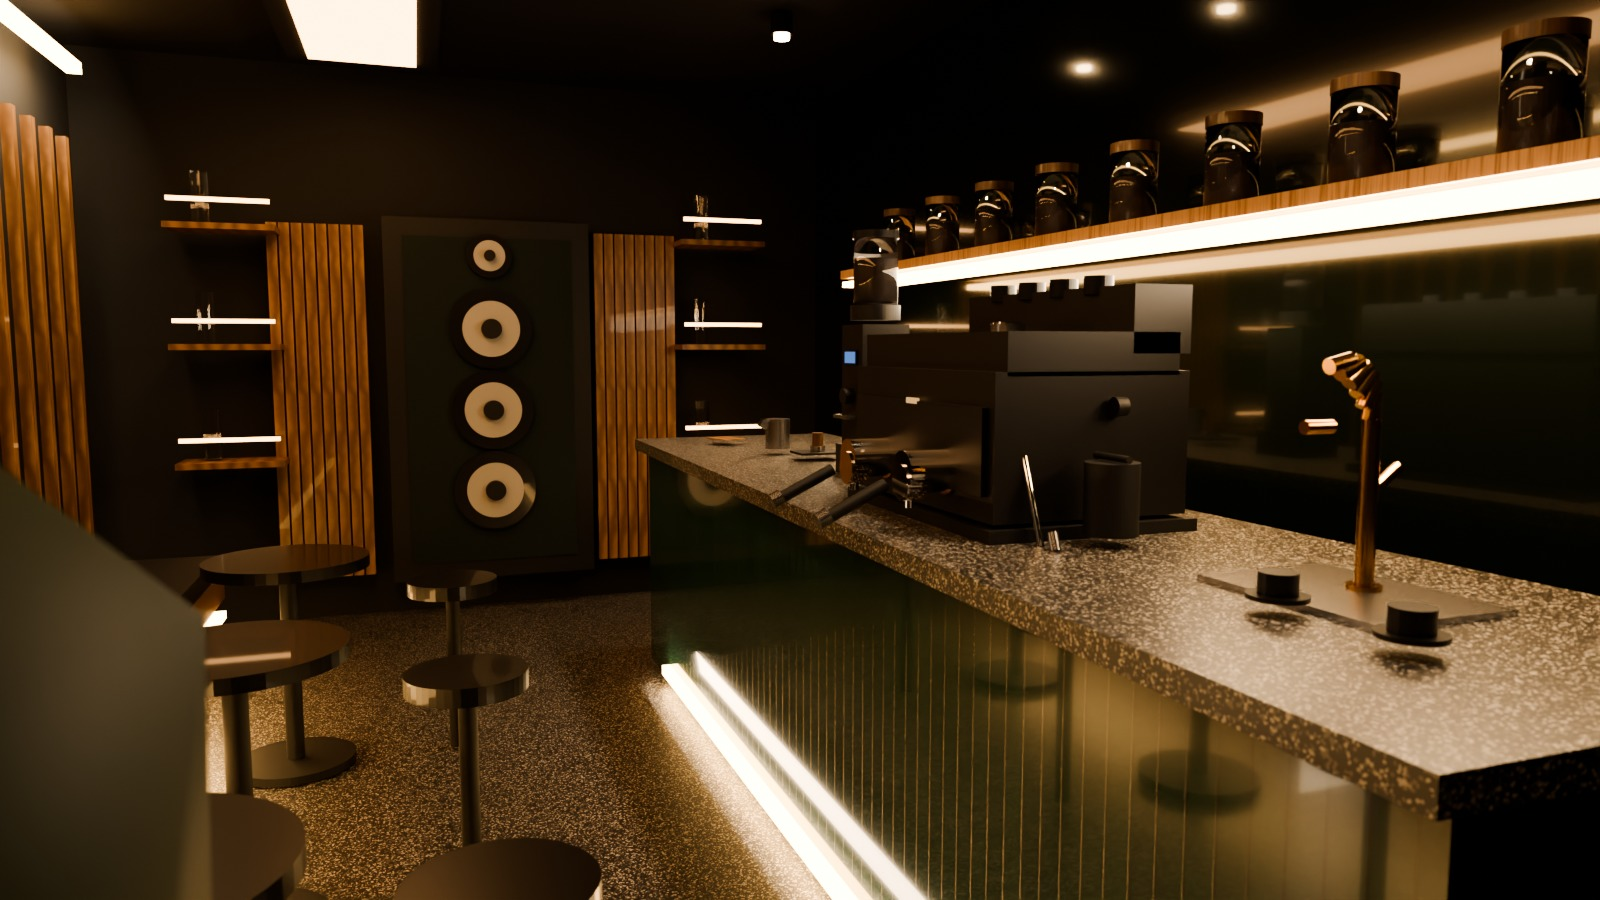
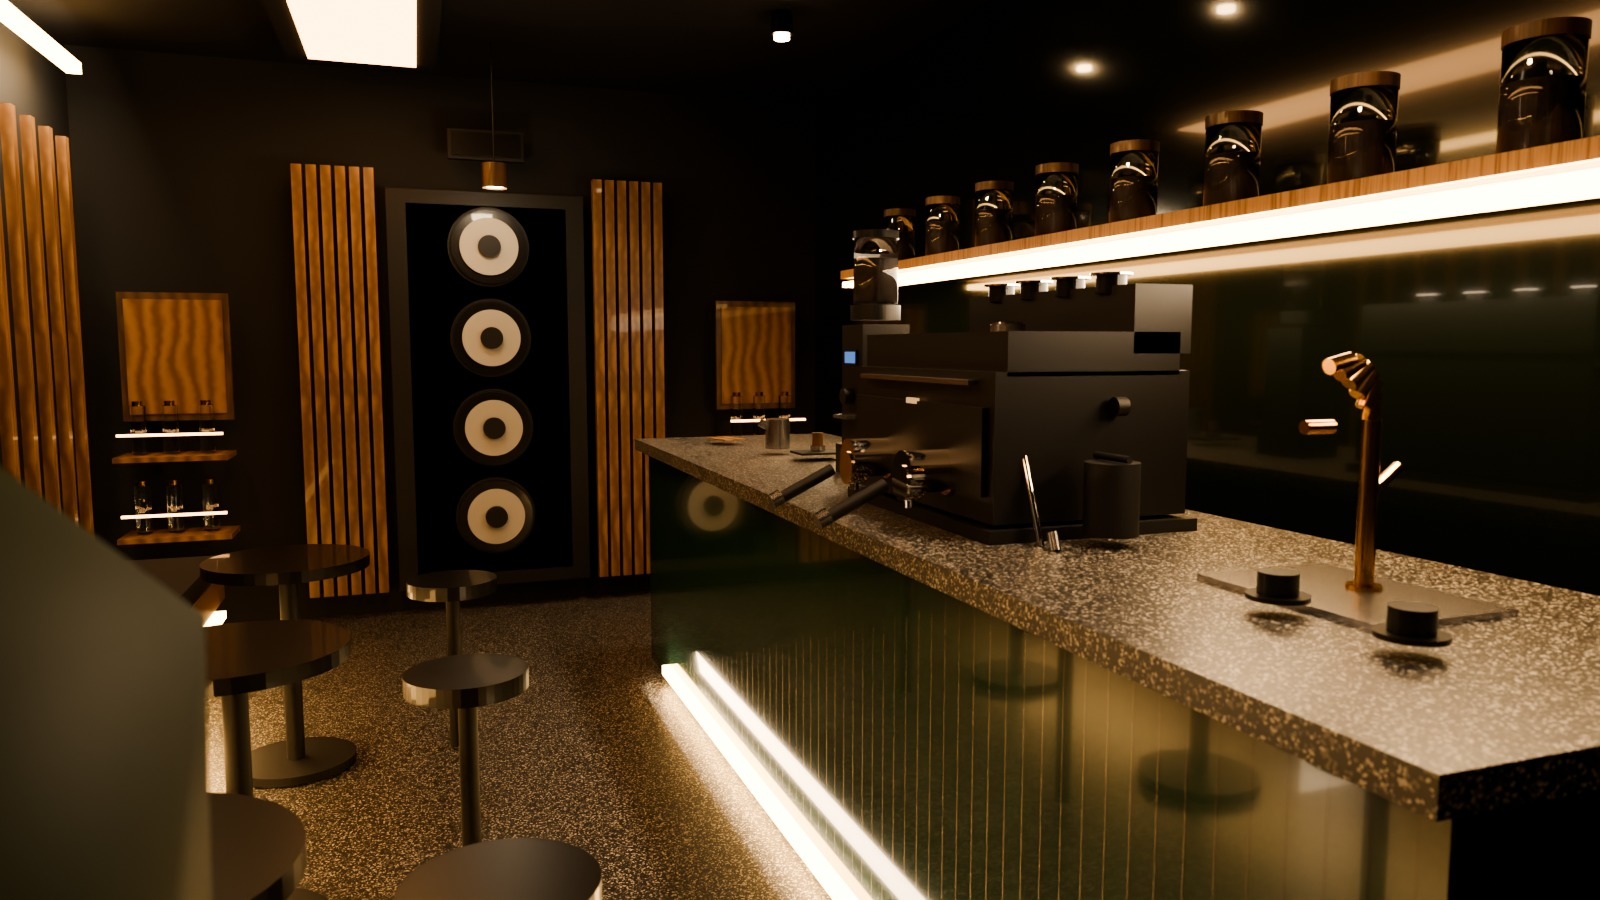
Studio Viewer: drag-to-look pan + scroll-to-zoom, scene sync helper
- Stage now supports pointer-drag panning across an over-scanned hero and
  wheel zoom (1x-2.2x); hotspot pins track the same transform.
- blender/sync_scenes.sh copies the newest render per camera (v2 over v1)
  into public/scenes/ under the viewer's expected filenames.
- Wired the first three v1 renders (counter_hero, entrance, equipment).

diff --git a/src/studio/StudioViewer.tsx b/src/studio/StudioViewer.tsx
@@ -154,26 +154,63 @@ function Floorplan({ activeId, onPick }: { activeId: SceneId; onPick: (id: Scene
 
 // ----------------------------------------------------------------------------- Stage
 function Stage({ scene }: { scene: Scene }) {
-  const imgRef = useRef<HTMLImageElement>(null);
+  const frameRef = useRef<HTMLDivElement>(null);
   const [imgOk, setImgOk] = useState(true);
-  useEffect(() => { setImgOk(true); }, [scene.id]);
+  // pan: -1..1 across the over-scanned hero; zoom: 1..2
+  const [pan, setPan] = useState({ x: 0, y: 0 });
+  const [zoom, setZoom] = useState(1.08);
+  const drag = useRef<{ x: number; y: number } | null>(null);
+
+  useEffect(() => { setImgOk(true); setPan({ x: 0, y: 0 }); setZoom(1.08); }, [scene.id]);
+
+  const onDown = (e: React.PointerEvent) => {
+    drag.current = { x: e.clientX, y: e.clientY };
+    (e.target as HTMLElement).setPointerCapture?.(e.pointerId);
+  };
+  const onMove = (e: React.PointerEvent) => {
+    if (!drag.current) return;
+    const dx = (e.clientX - drag.current.x) / (frameRef.current?.clientWidth ?? 1);
+    const dy = (e.clientY - drag.current.y) / (frameRef.current?.clientHeight ?? 1);
+    drag.current = { x: e.clientX, y: e.clientY };
+    setPan((p) => ({
+      x: Math.max(-1, Math.min(1, p.x + dx * 2)),
+      y: Math.max(-1, Math.min(1, p.y + dy * 2)),
+    }));
+  };
+  const onUp = () => { drag.current = null; };
+  const onWheel = (e: React.WheelEvent) => {
+    setZoom((z) => Math.max(1, Math.min(2.2, z - e.deltaY * 0.0012)));
+  };
+
+  // translate pan into image offset; the extra zoom gives room to move
+  const tx = pan.x * (zoom - 1) * -38;
+  const ty = pan.y * (zoom - 1) * -32;
 
   return (
     <section className="stage">
-      <div className="stage-frame">
+      <div
+        className="stage-frame"
+        ref={frameRef}
+        onPointerDown={onDown}
+        onPointerMove={onMove}
+        onPointerUp={onUp}
+        onPointerLeave={onUp}
+        onWheel={onWheel}
+      >
         {imgOk ? (
           <img
-            ref={imgRef}
             src={scene.hero}
             alt={scene.title}
             className="hero-img"
+            draggable={false}
+            style={{ transform: `scale(${zoom}) translate(${tx}px, ${ty}px)` }}
             onError={() => setImgOk(false)}
           />
         ) : (
           <Placeholder scene={scene} />
         )}
         {scene.hotspots.map((h, i) => (
-          <Hotspot key={i} h={h} />
+          <Hotspot key={i} h={h} pan={pan} zoom={zoom} />
         ))}
         <div className="hint">
           <span className="hint-icon">⌖</span>
@@ -187,12 +224,18 @@ function Stage({ scene }: { scene: Scene }) {
   );
 }
 
-function Hotspot({ h }: { h: HotspotT }) {
+function Hotspot({ h, pan, zoom }: { h: HotspotT; pan: { x: number; y: number }; zoom: number }) {
   const [open, setOpen] = useState(false);
+  // mirror the image transform so pins stay glued to features
+  const tx = pan.x * (zoom - 1) * -38;
+  const ty = pan.y * (zoom - 1) * -32;
+  const left = 50 + (h.x * 100 - 50) * zoom + tx;
+  const top = 50 + (h.y * 100 - 50) * zoom + ty;
   return (
     <button
       className={`hotspot ${open ? 'open' : ''}`}
-      style={{ left: `${h.x * 100}%`, top: `${h.y * 100}%` }}
+      style={{ left: `${left}%`, top: `${top}%` }}
+      onPointerDown={(e) => e.stopPropagation()}
       onClick={() => setOpen((v) => !v)}
     >
       <span className="hot-ring" />
